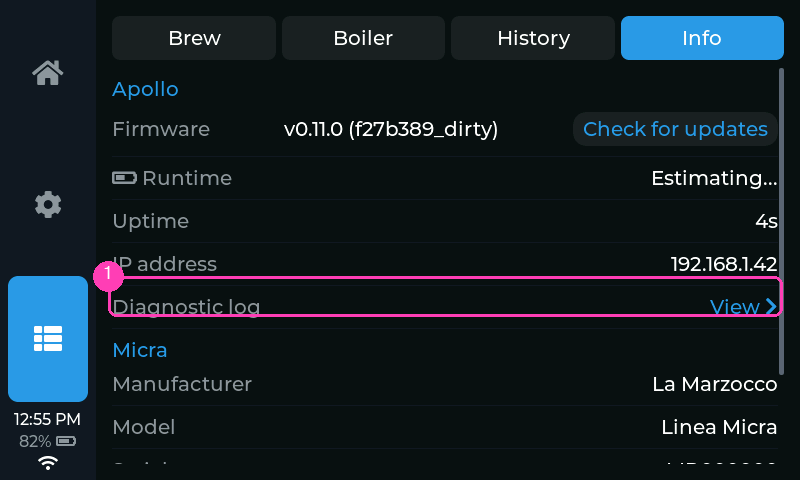
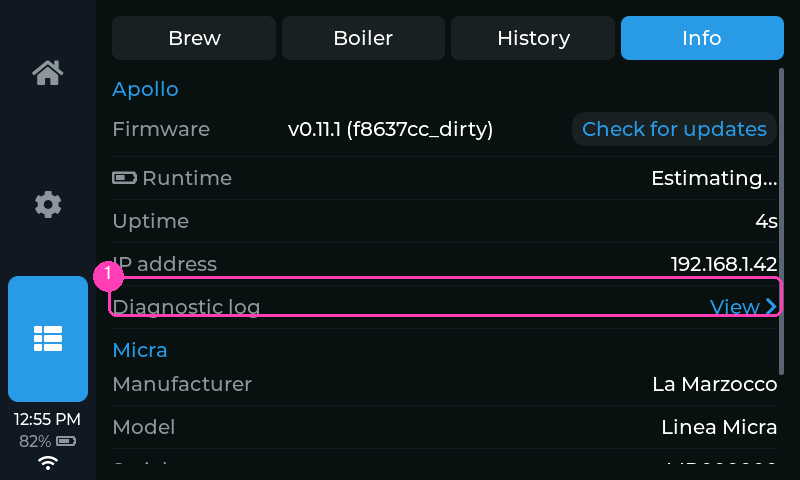
release: v0.11.1 — update notice shows how to turn it off
The "Update available" screen adds a line pointing to Settings > Apollo > WiFi
(set Check for updates to Off) for anyone who'd rather not be prompted. Refresh
the update-modal + stats-info manual renders.

Claude-Session: https://claude.ai/code/session_01Y79HbEouxqVKpWtbKNrtjf

Changed region(s): [[0.3438, 0.25, 0.625, 0.3125], [0.7188, 0.25, 0.9688, 0.2812]]

diff --git a/src/ui/app.cpp b/src/ui/app.cpp
@@ -1857,7 +1857,8 @@ void App::open_update_modal() {
   lv_obj_set_style_text_font(hint, ui::font_dp(12), 0);
   lv_label_set_text(hint,
                     "Or install from a computer at "
-                    "mlsorensen.github.io/Apollo2 - settings are kept.");
+                    "mlsorensen.github.io/Apollo2 - settings are kept. "
+                    "Turn these notices off under Settings > Apollo > WiFi.");
 
   // Install now downloads the image and reboots into it (both BLE links are
   // parked for the download); Remind me later re-offers next check; Skip won't

diff --git a/include/version.h b/include/version.h
@@ -7,7 +7,7 @@
 
 namespace fw {
 
-inline constexpr const char* kVersion = "0.11.0";
+inline constexpr const char* kVersion = "0.11.1";
 
 #ifdef FW_GIT_REV
 inline constexpr const char* kGitRev = FW_GIT_REV;

diff --git a/CHANGELOG.md b/CHANGELOG.md
@@ -5,6 +5,14 @@ Release's notes (see `.github/workflows/firmware-release.yml`), so keep the
 heading format `## vX.Y.Z` exactly — write for someone using the machine, not
 for someone reading the diff.
 
+## v0.11.1
+
+### Changes
+
+- **The update notice now tells you how to turn it off.** The "Update available"
+  screen adds a line pointing to **Settings → Apollo → WiFi** (set **Check for
+  updates** to **Off**) if you'd rather not be prompted.
+
 ## v0.11.0
 
 ### Changes
